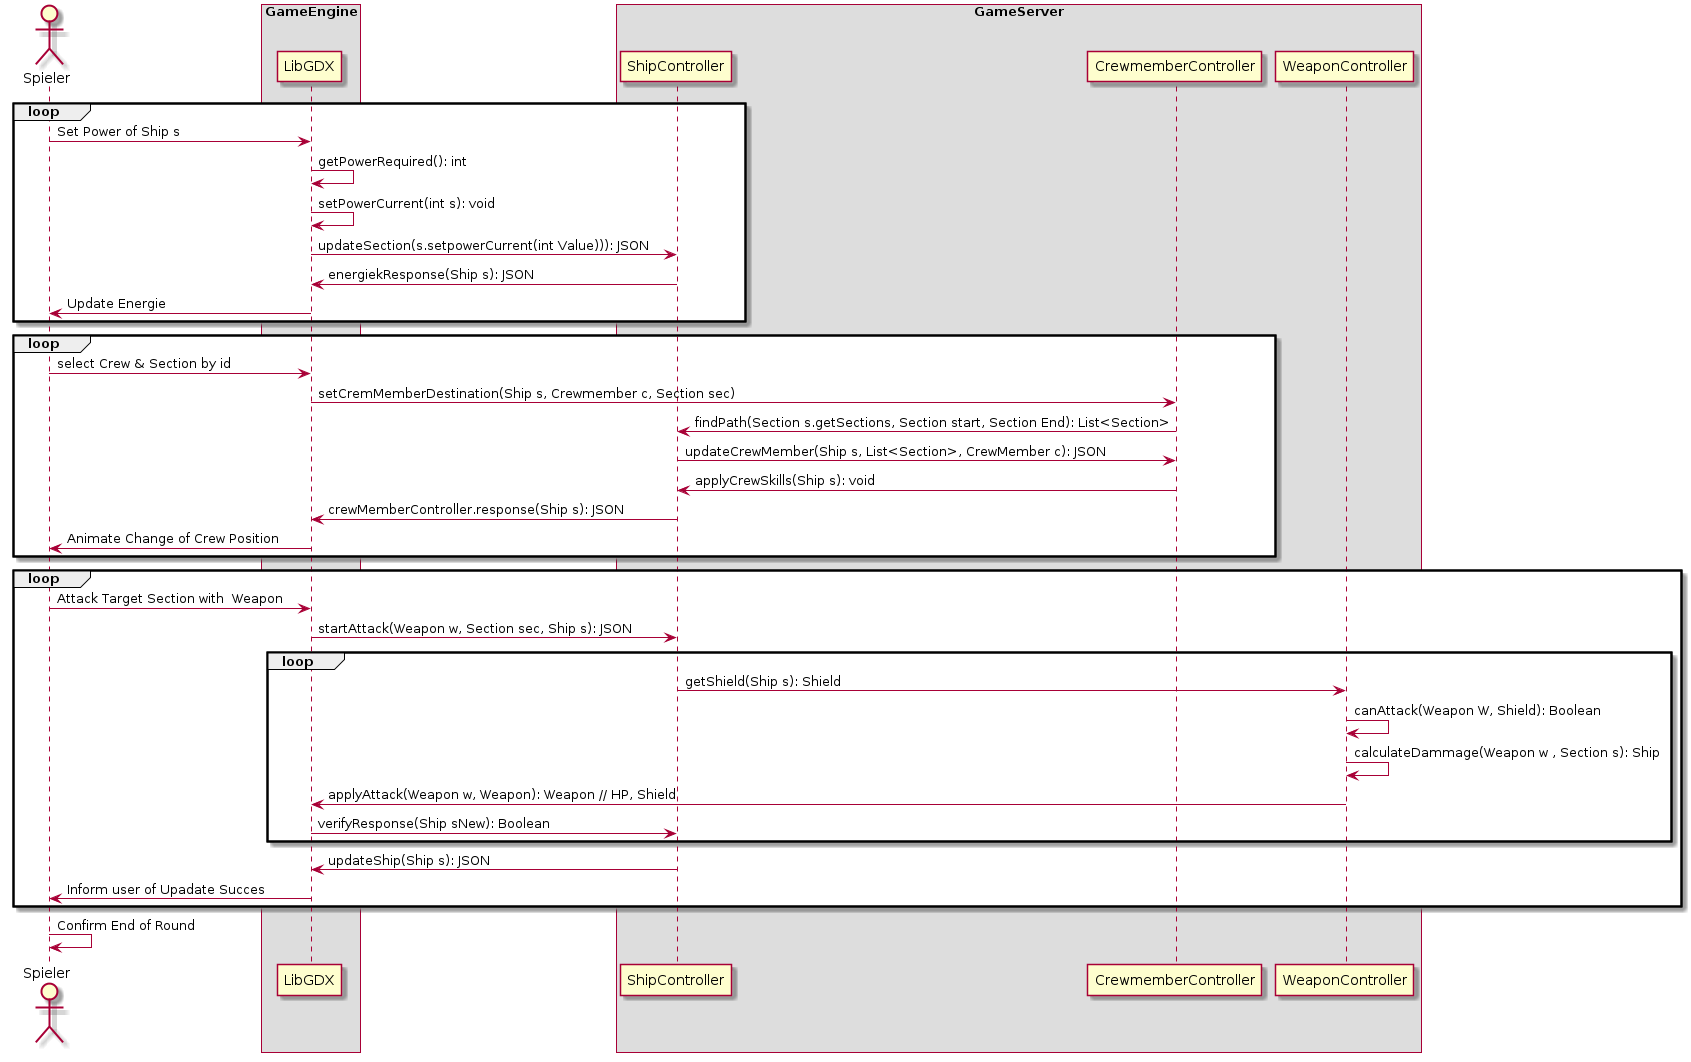
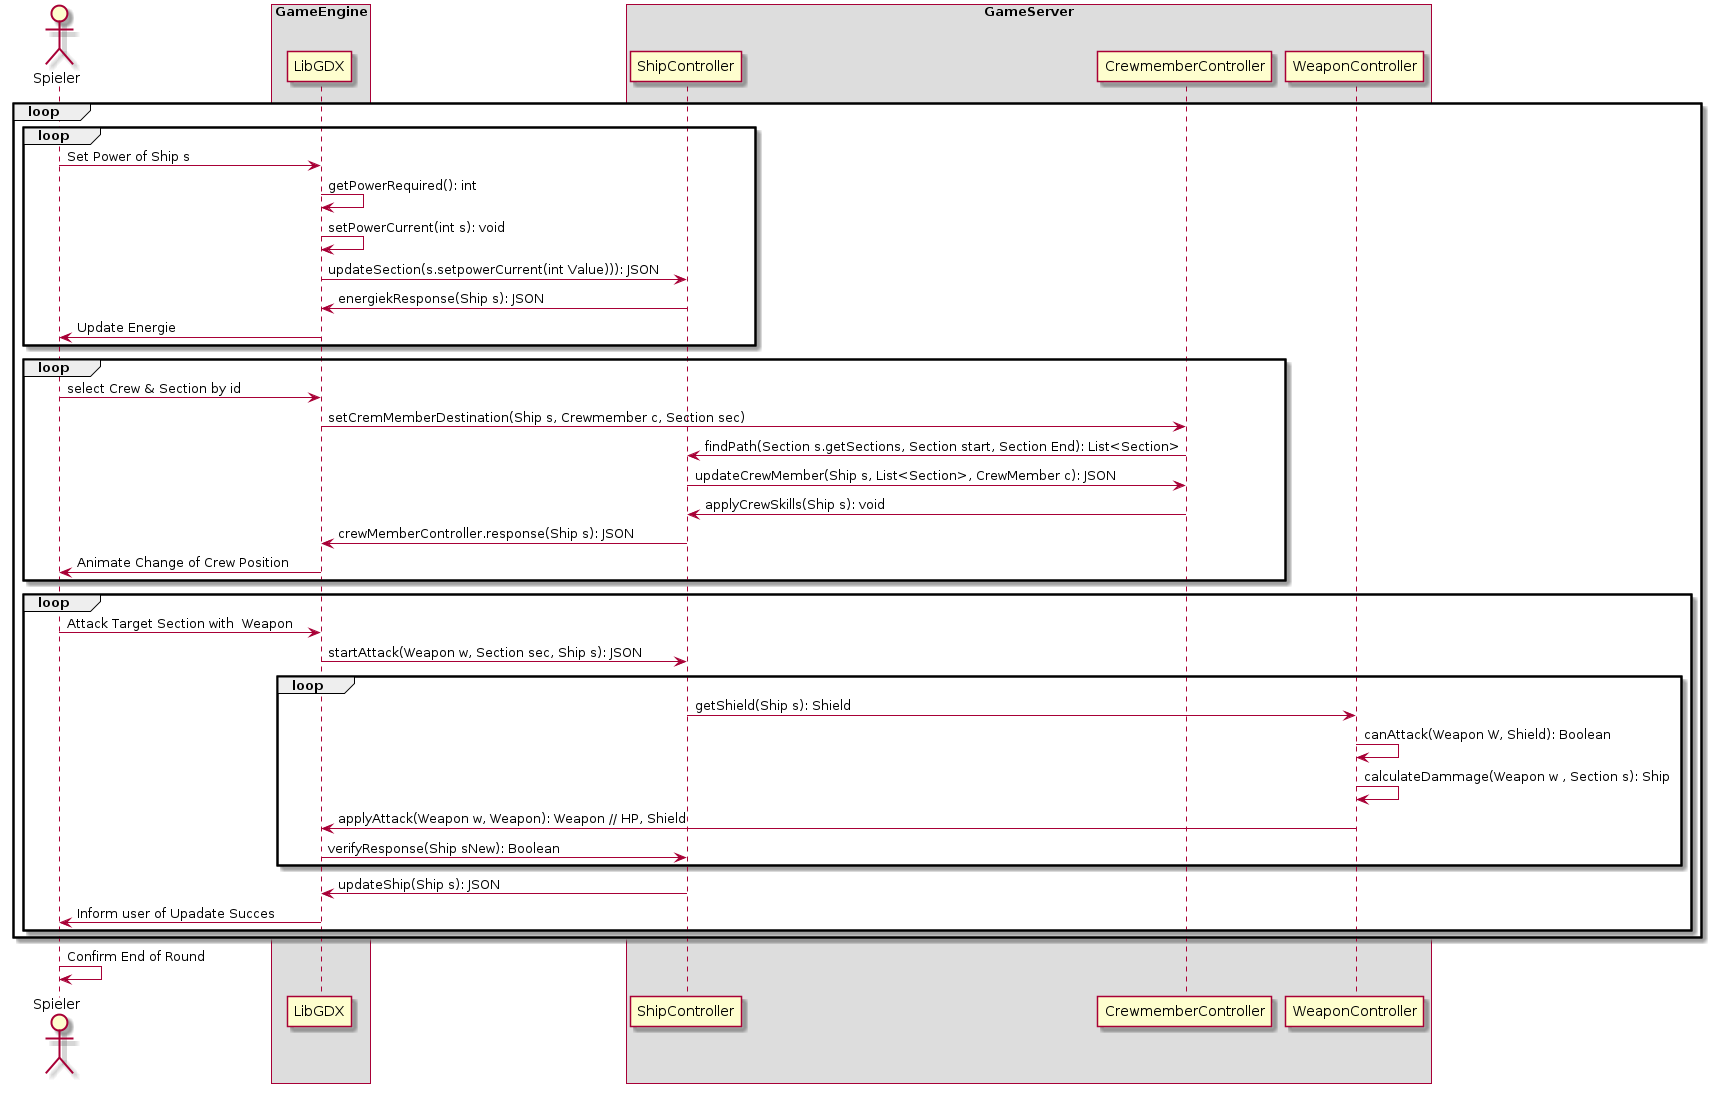
anpassen vom Kampf

Changed region(s): [[0.0, 0.0, 1.0, 0.9944], [0.3383, 0.9011, 0.4305, 0.9633], [0.5535, 0.0, 0.6458, 0.0311]]

diff --git a/docs/Architekturbeschreibung/Architekturbeschreibung.tex b/docs/Architekturbeschreibung/Architekturbeschreibung.tex
@@ -772,12 +772,18 @@ betrachten und eine umfangreichere Abdeckung der Architektur anstreben.} }
 \subsection{Kampfrunde}
 
 In der Abbildung \ref{fig:Kampf} ist zu entnehmen, wie Kämpfe ablaufen werden.
+
+
 Als erstes kann der Spieler seine vorhandene Energie, falls er mag umverteilen.
-Dann kann er seine Crew umverteilen. Diese fangen dann an die Section zu reparieren
-in der Sie stehen.
-Als nächstes wird für jede Waffe angeben, welche Section sie von dem Gegnerischem Schiff angreifen soll.
-Sobald alles bestätigt ist, wird die Runde von dem Spieler beendet. Hat der Gegner, dies getan.
-So werden vom Server die Änderungen validiert und die Clients erhalten die akutaliserten Werte.
+Falls er durch einen Angrif Energie verloren hat, so kann er jetzt den Sectionen
+die für in wichtig sind mit Strom versorgen.
+Der Spieler kann seinen Crew an neue Orte endsenden. Ihnen wird ein Pfad zur Ihrem Ziel
+berechnet. Als dann laufen diese dann los. Am Ziel angekommen führen sie Tätigkeiten aus, welche in der Section möglich sind.
+
+Die mit Loop gekenzeichneten Kästchen sind Schleifen. Diese werden nicht oder mehrmals durchlaufen. Die Reihenfolge der Ausführung wird vom Spieler festgelegt.
+
+Spätestens, wenn der Spieler keine Actionen durchführen kann, wird er die Kampfrunde beenden.
+
 
 \begin{figure}[!ht]
 	\centering
